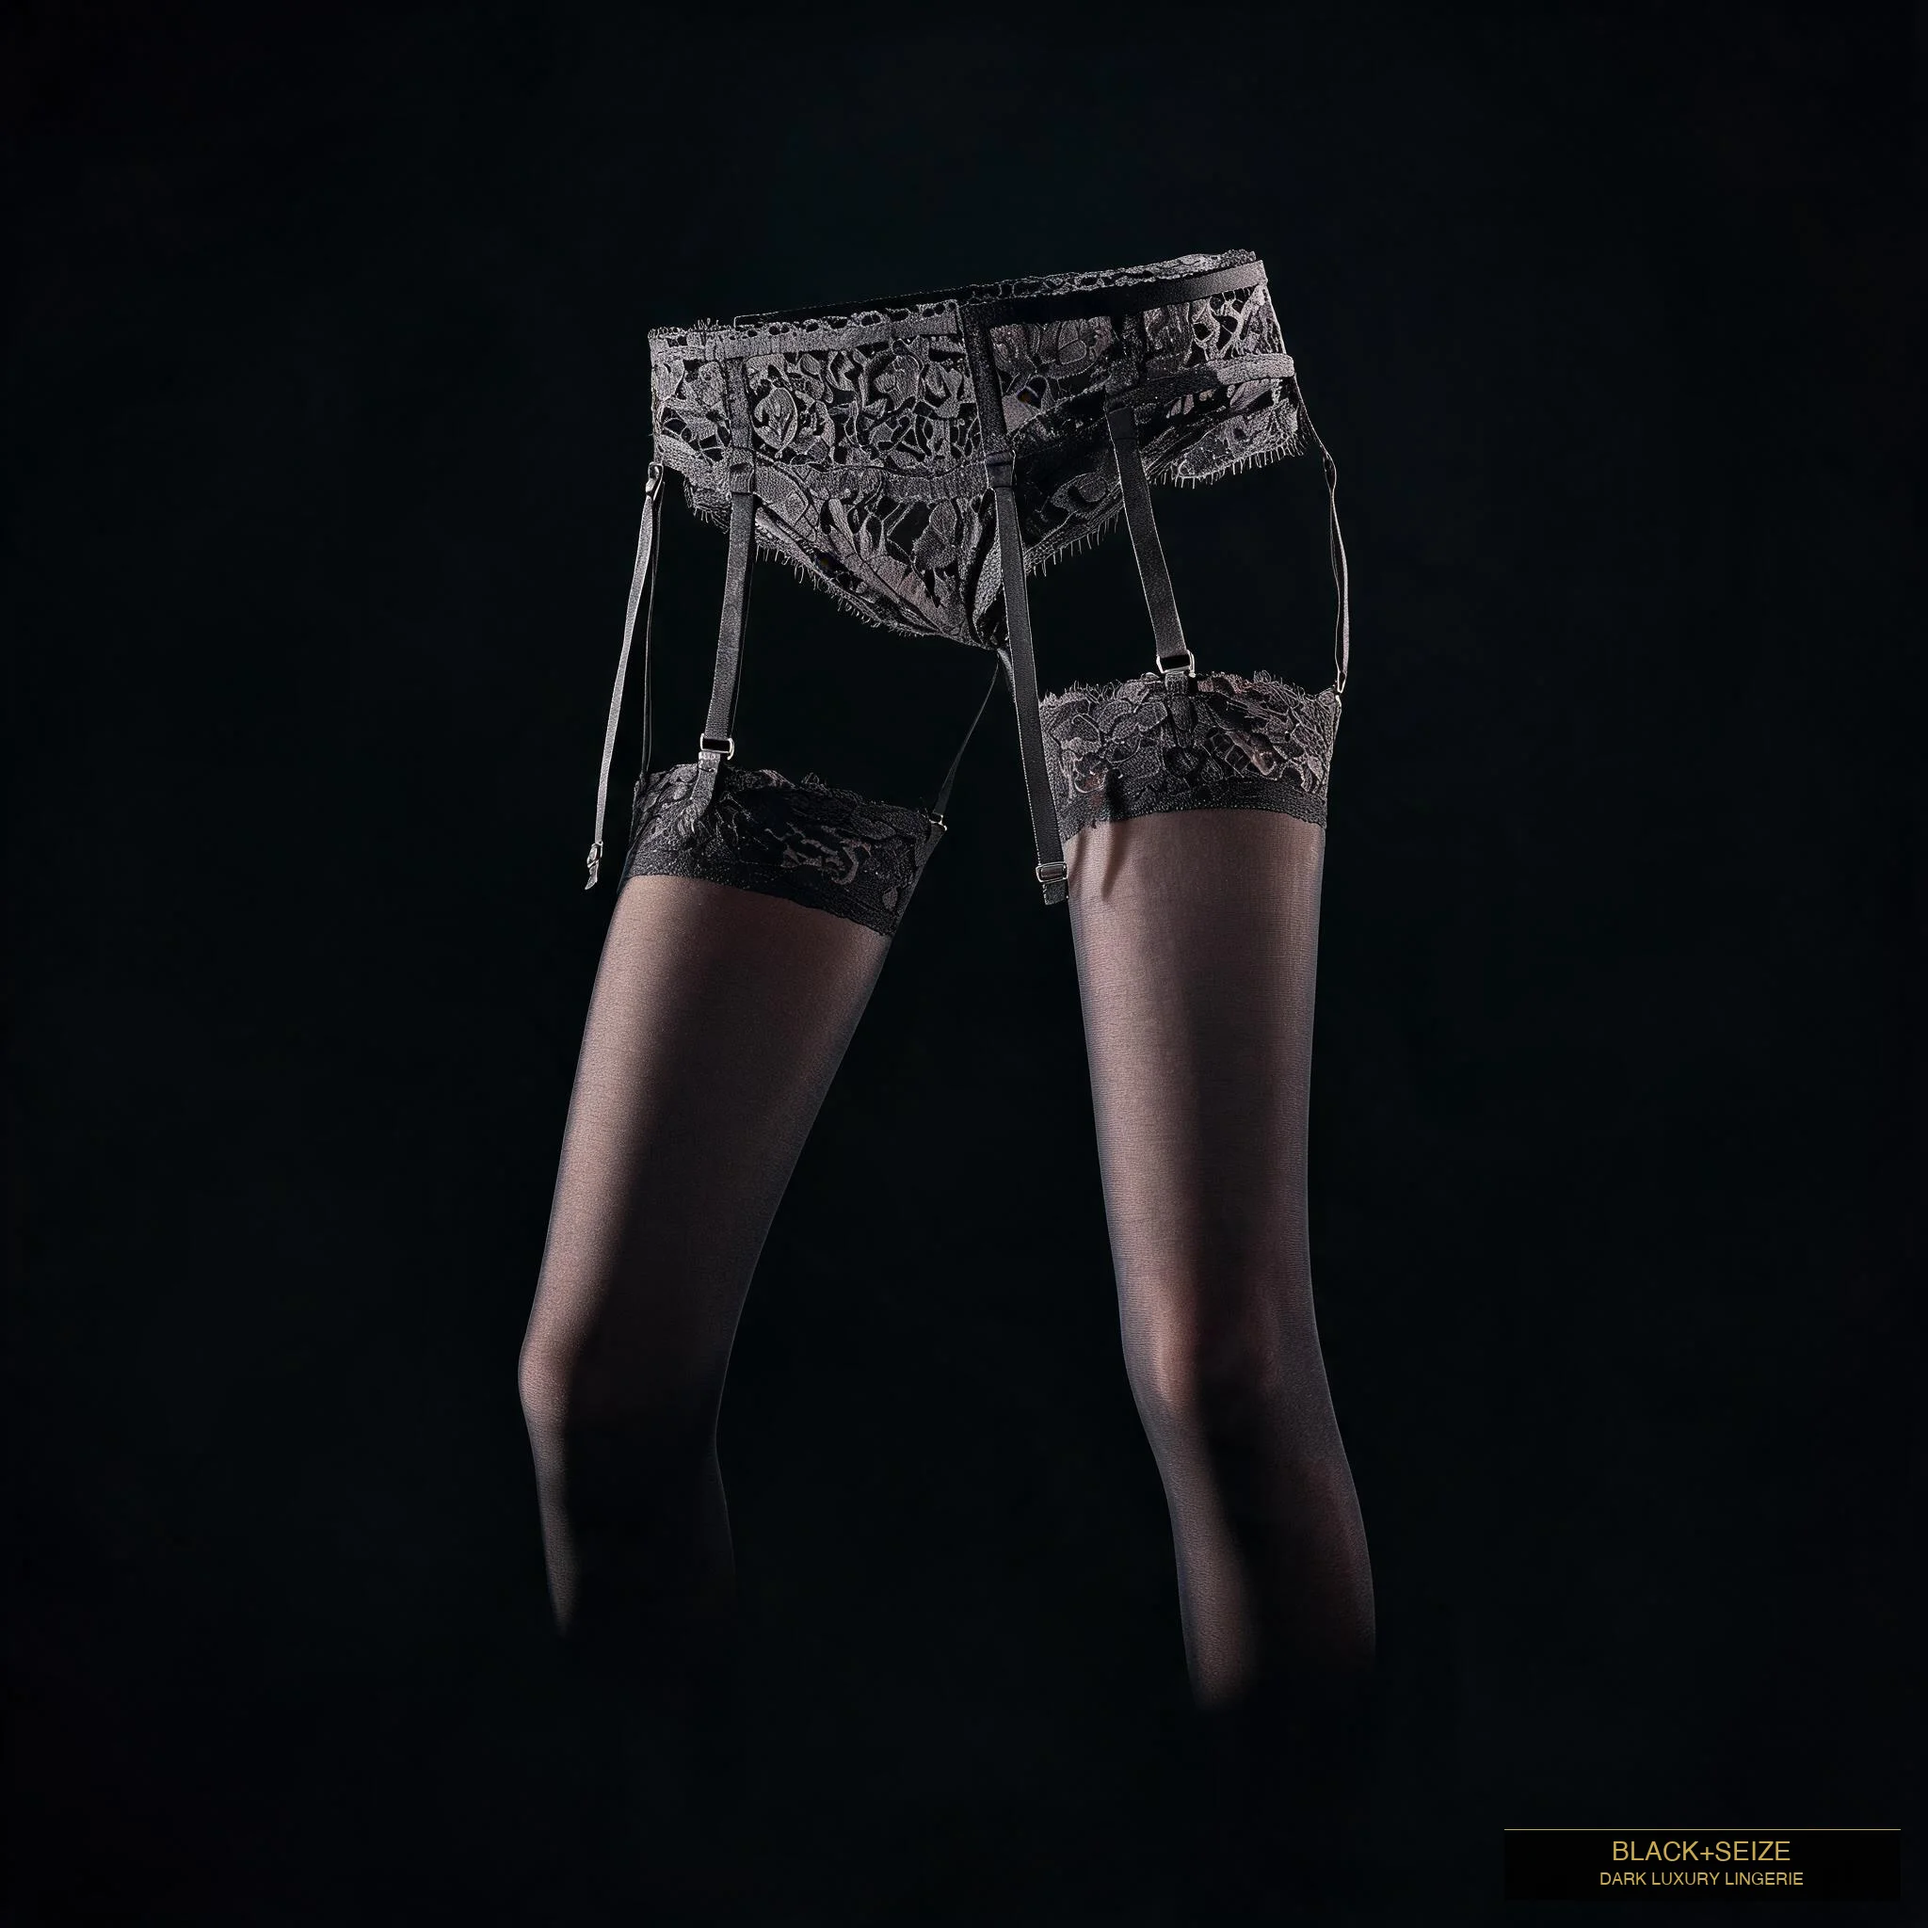
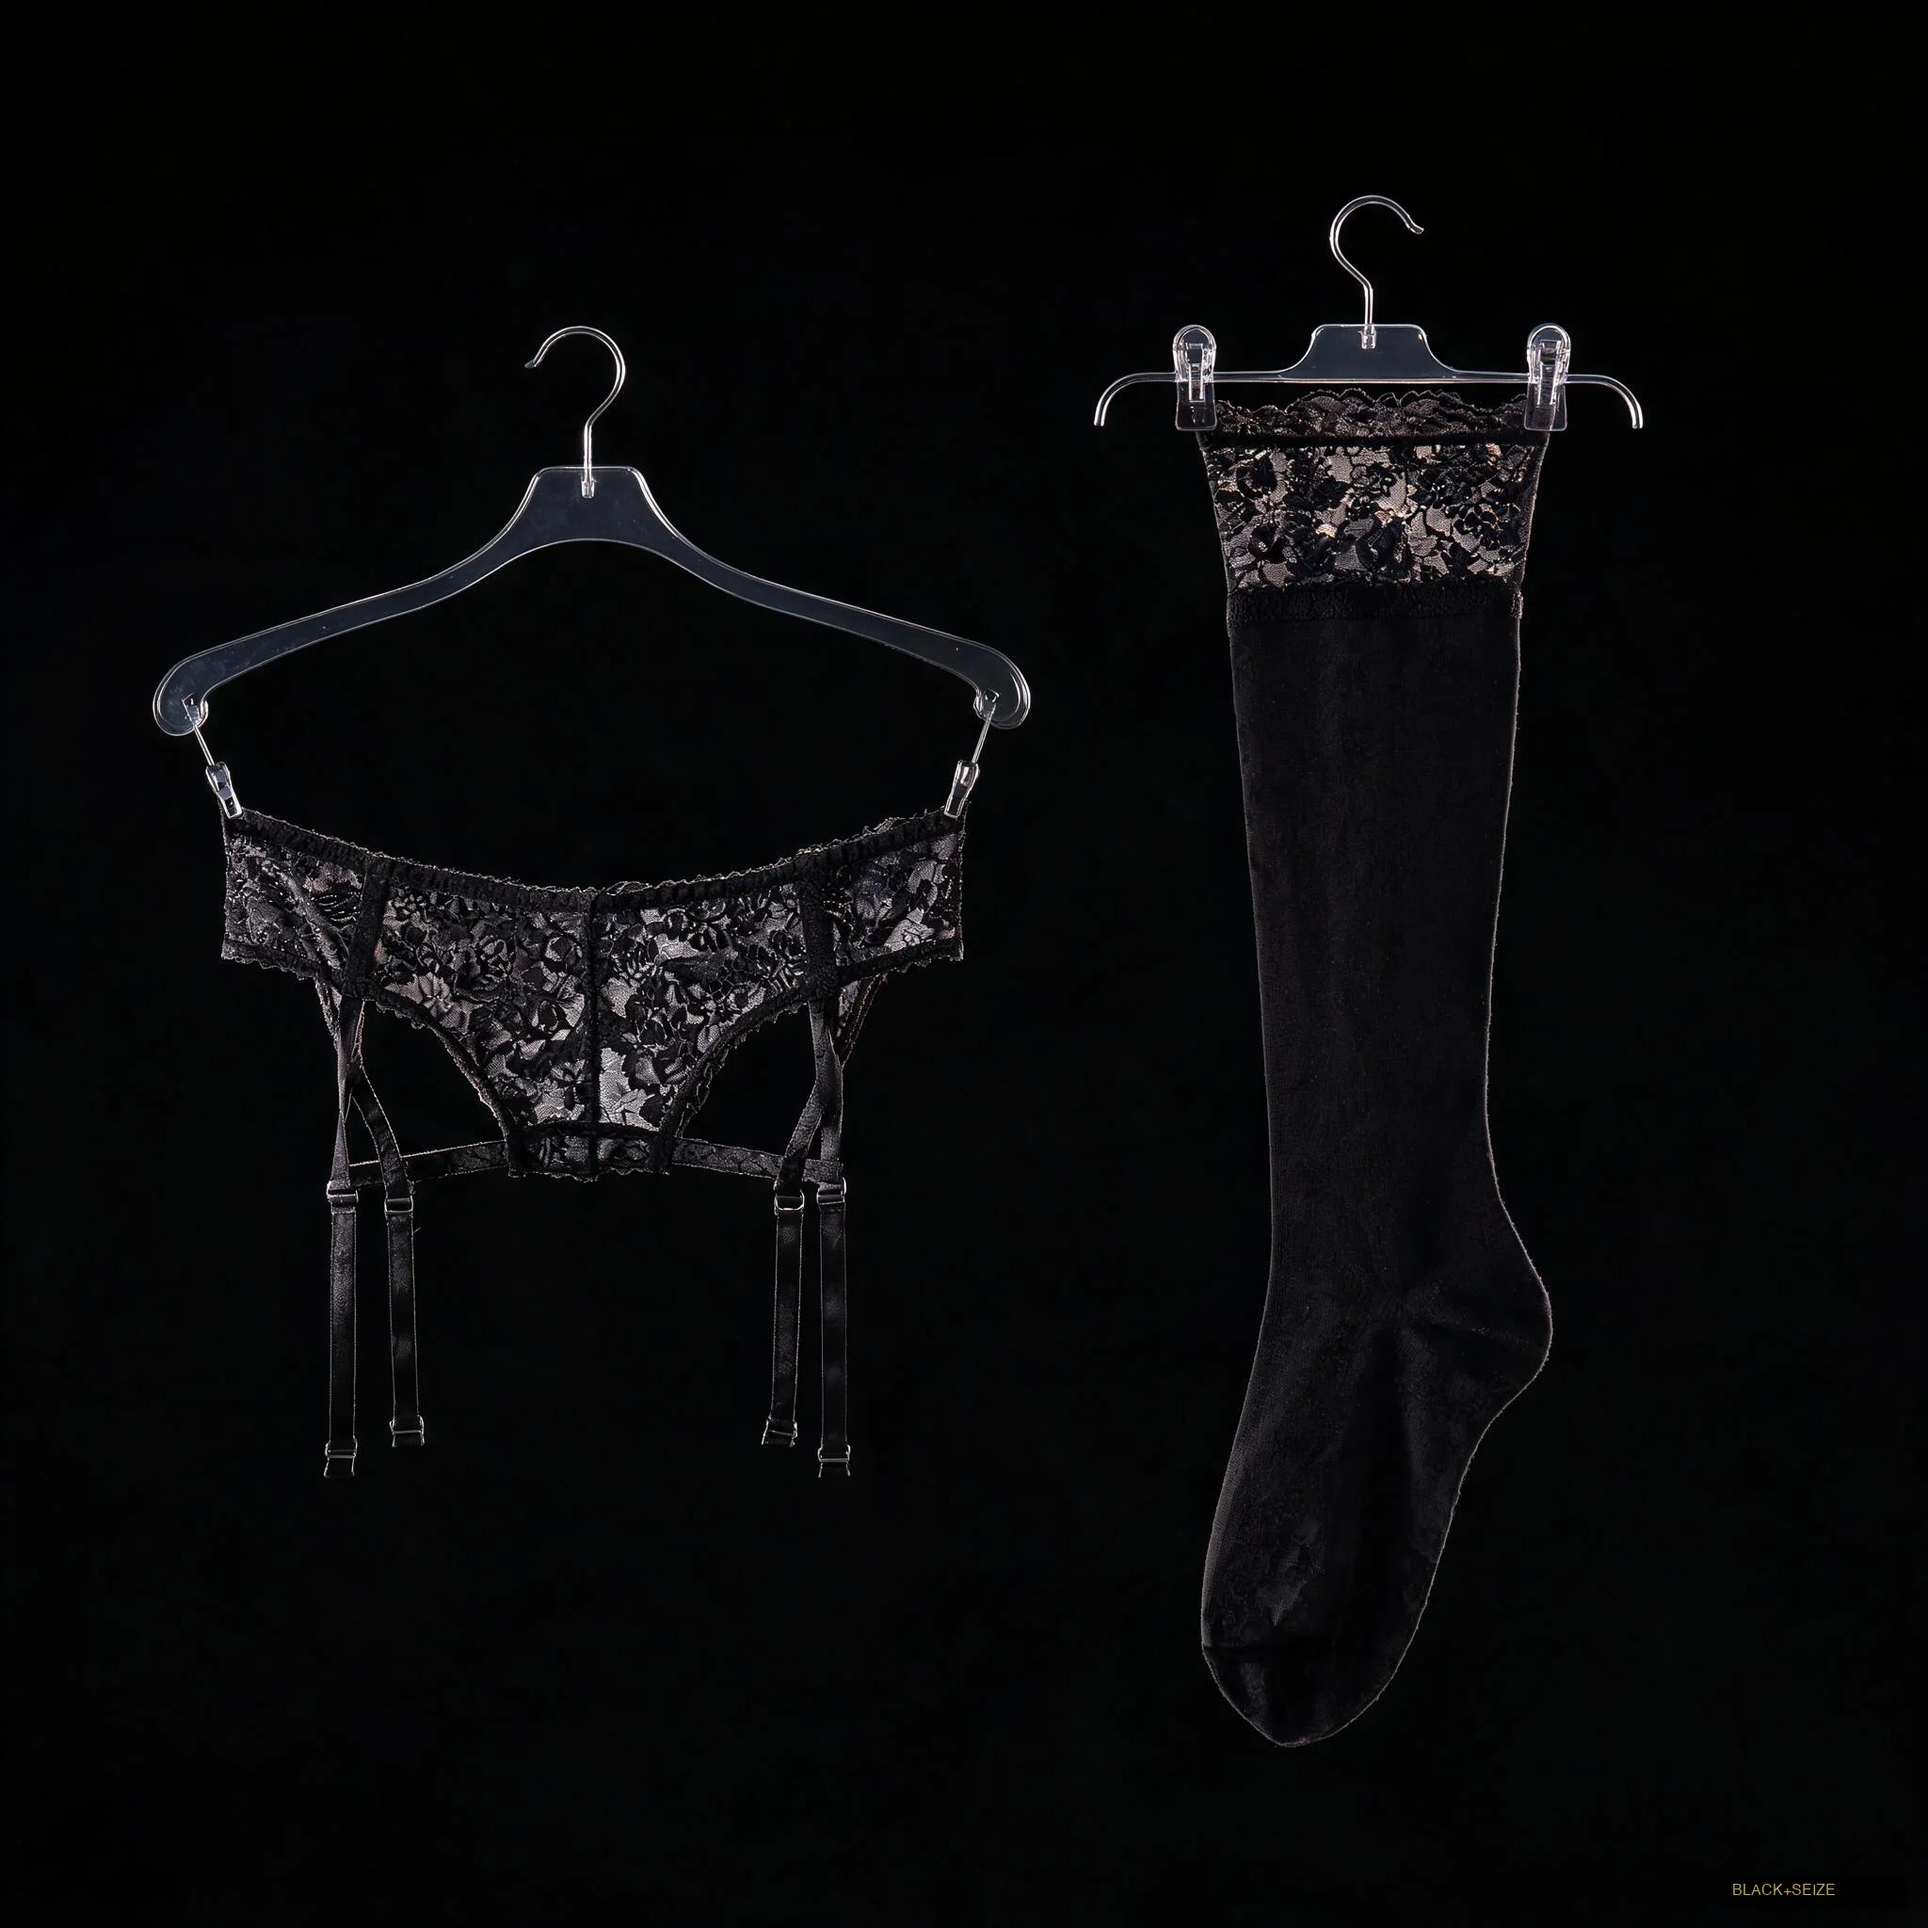
v8.1 - Updated Hero copy (natural tone), brand story image, sku01 mannequin product shot

Changed region(s): [[0.0625, 0.0938, 0.8438, 0.9062], [0.8438, 0.9375, 0.9375, 1.0]]

diff --git a/index.html b/index.html
@@ -410,13 +410,11 @@ a:focus-visible,button:focus-visible{
   line-height:1.8;margin-bottom:1.25rem;max-width:460px;
 }
 .story-visual{
-  background:radial-gradient(ellipse at center,rgba(201,168,76,.1),transparent 70%);
-  min-height:400px;
+  min-height:400px;overflow:hidden;position:relative;
   display:flex;align-items:center;justify-content:center;
 }
-.story-visual .story-symbol{
-  font-family:var(--serif);
-  font-size:8rem;color:var(--gold);opacity:.2;
+.story-visual img{
+  width:100%;height:100%;object-fit:cover;position:absolute;inset:0;
 }
 
 /* ============================================
@@ -594,7 +592,7 @@ a:focus-visible,button:focus-visible{
     <div class="hero-text">
       <div class="hero-label anim-up">Black + Seize 暗驭</div>
       <h1 class="hero-title anim-up">你穿在身上<br>的<em>权力</em></h1>
-      <p class="hero-desc anim-up">受够了廉价蕾丝扎人的刺痛？厌倦了为别人而穿的剧本？这里每一件都为你自己而设计——合身、舒适、让你在镜子前凝视自己，而不是在别人的目光里躲闪。</p>
+      <p class="hero-desc anim-up">我们做内衣，不做剧本。每一件都只为一个目的——让你在镜子前多看自己一眼。</p>
       <a href="#shop" class="hero-cta anim-up" onclick="navigate('shop')">探索系列</a>
     </div>
     <div class="hero-image">
@@ -687,7 +685,7 @@ a:focus-visible,button:focus-visible{
         <p>市场上的情趣内衣，要么廉价得像一次性的，要么精致却不舒服，要么干脆默认你是为别人穿的。BLACK+SEIZE 暗驭不是其中之一。</p>
         <p>我们相信情趣内衣的核心功能只有一个：让你在穿上它的那一刻，感受到对自己的掌控。它不是讨好——它是一个人的仪式、两个人的暗号、所有人的权力声明。</p>
       </div>
-      <div class="story-visual"><div class="story-symbol">B+S</div></div>
+      <div class="story-visual"><img src="images/series/story_brand.webp" alt="BLACK+SEIZE 暗驭品牌故事" loading="lazy"></div>
     </div>
   </section>
 
